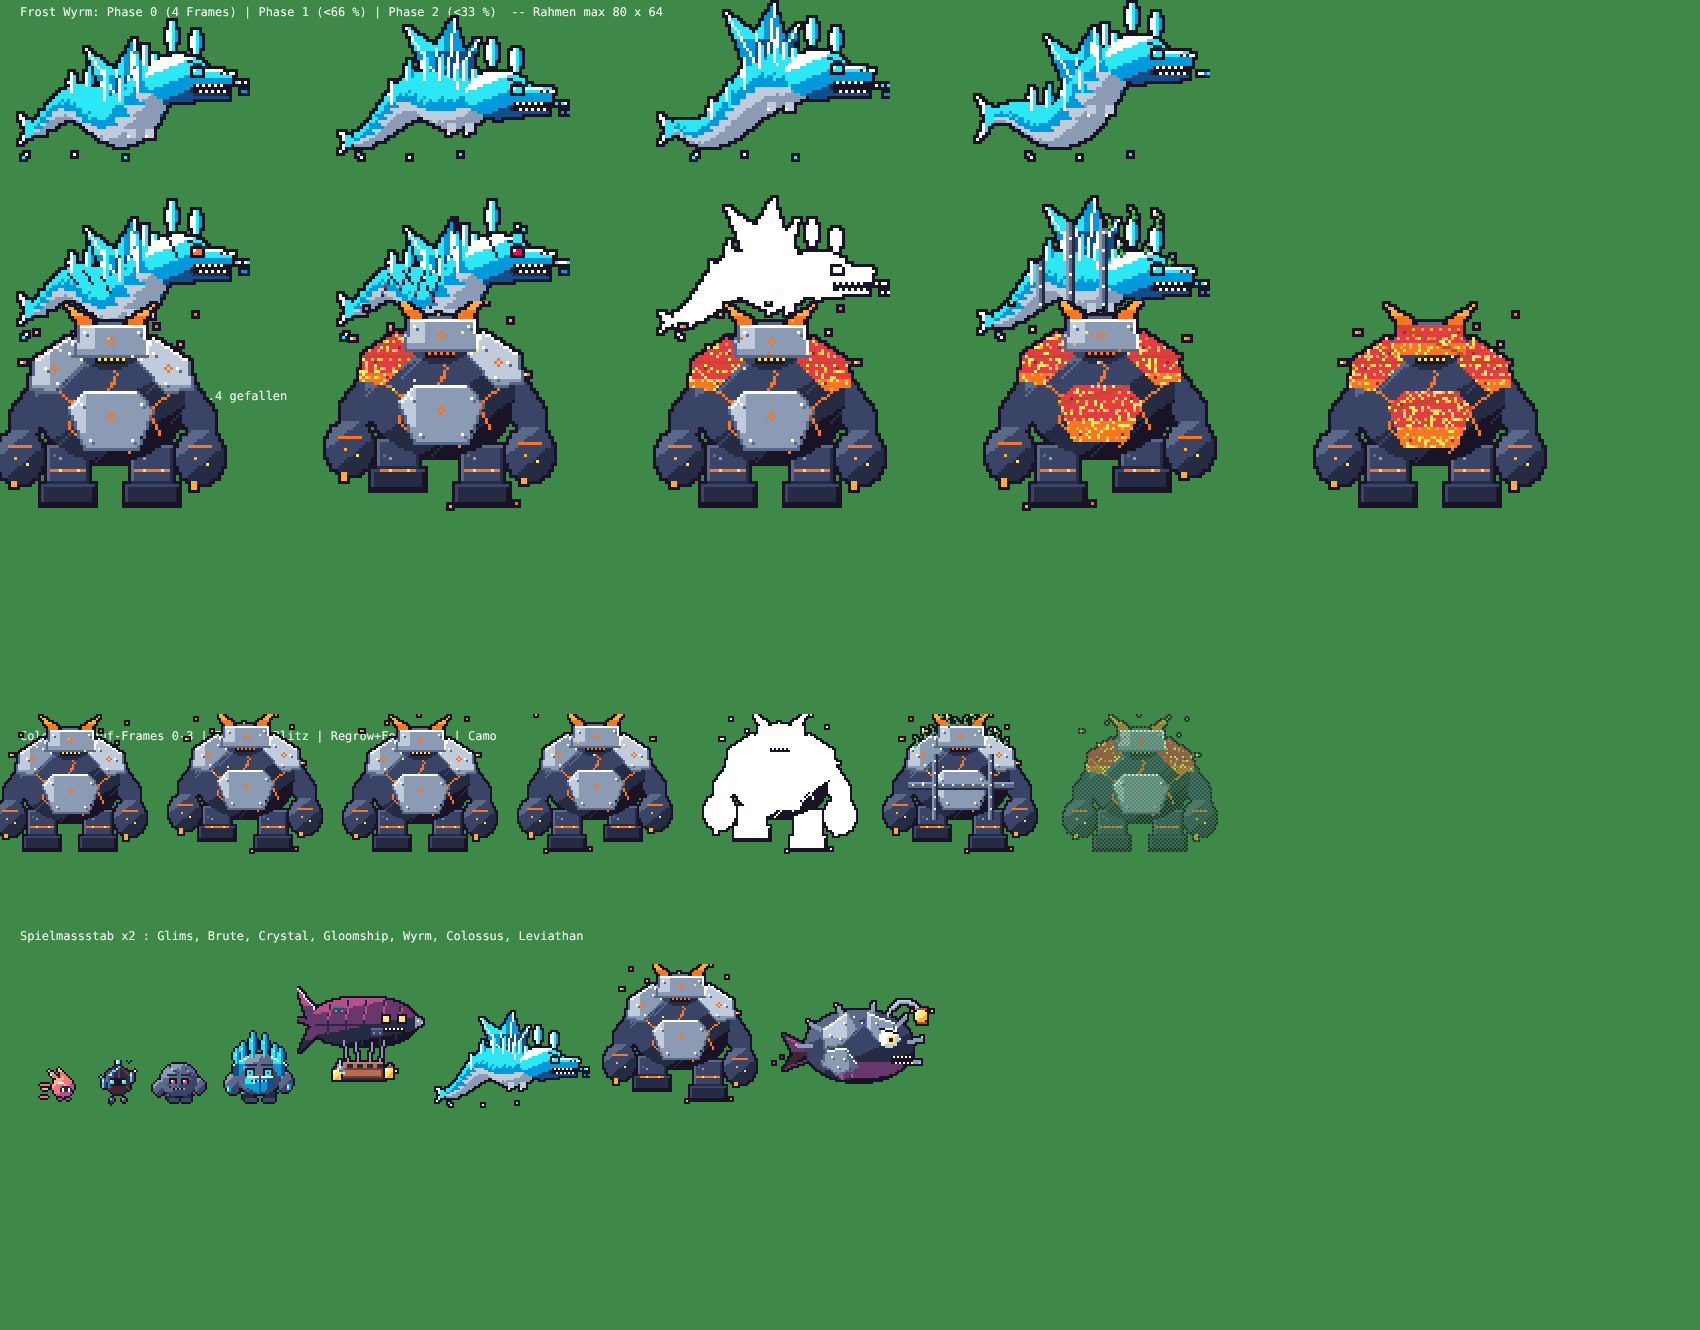
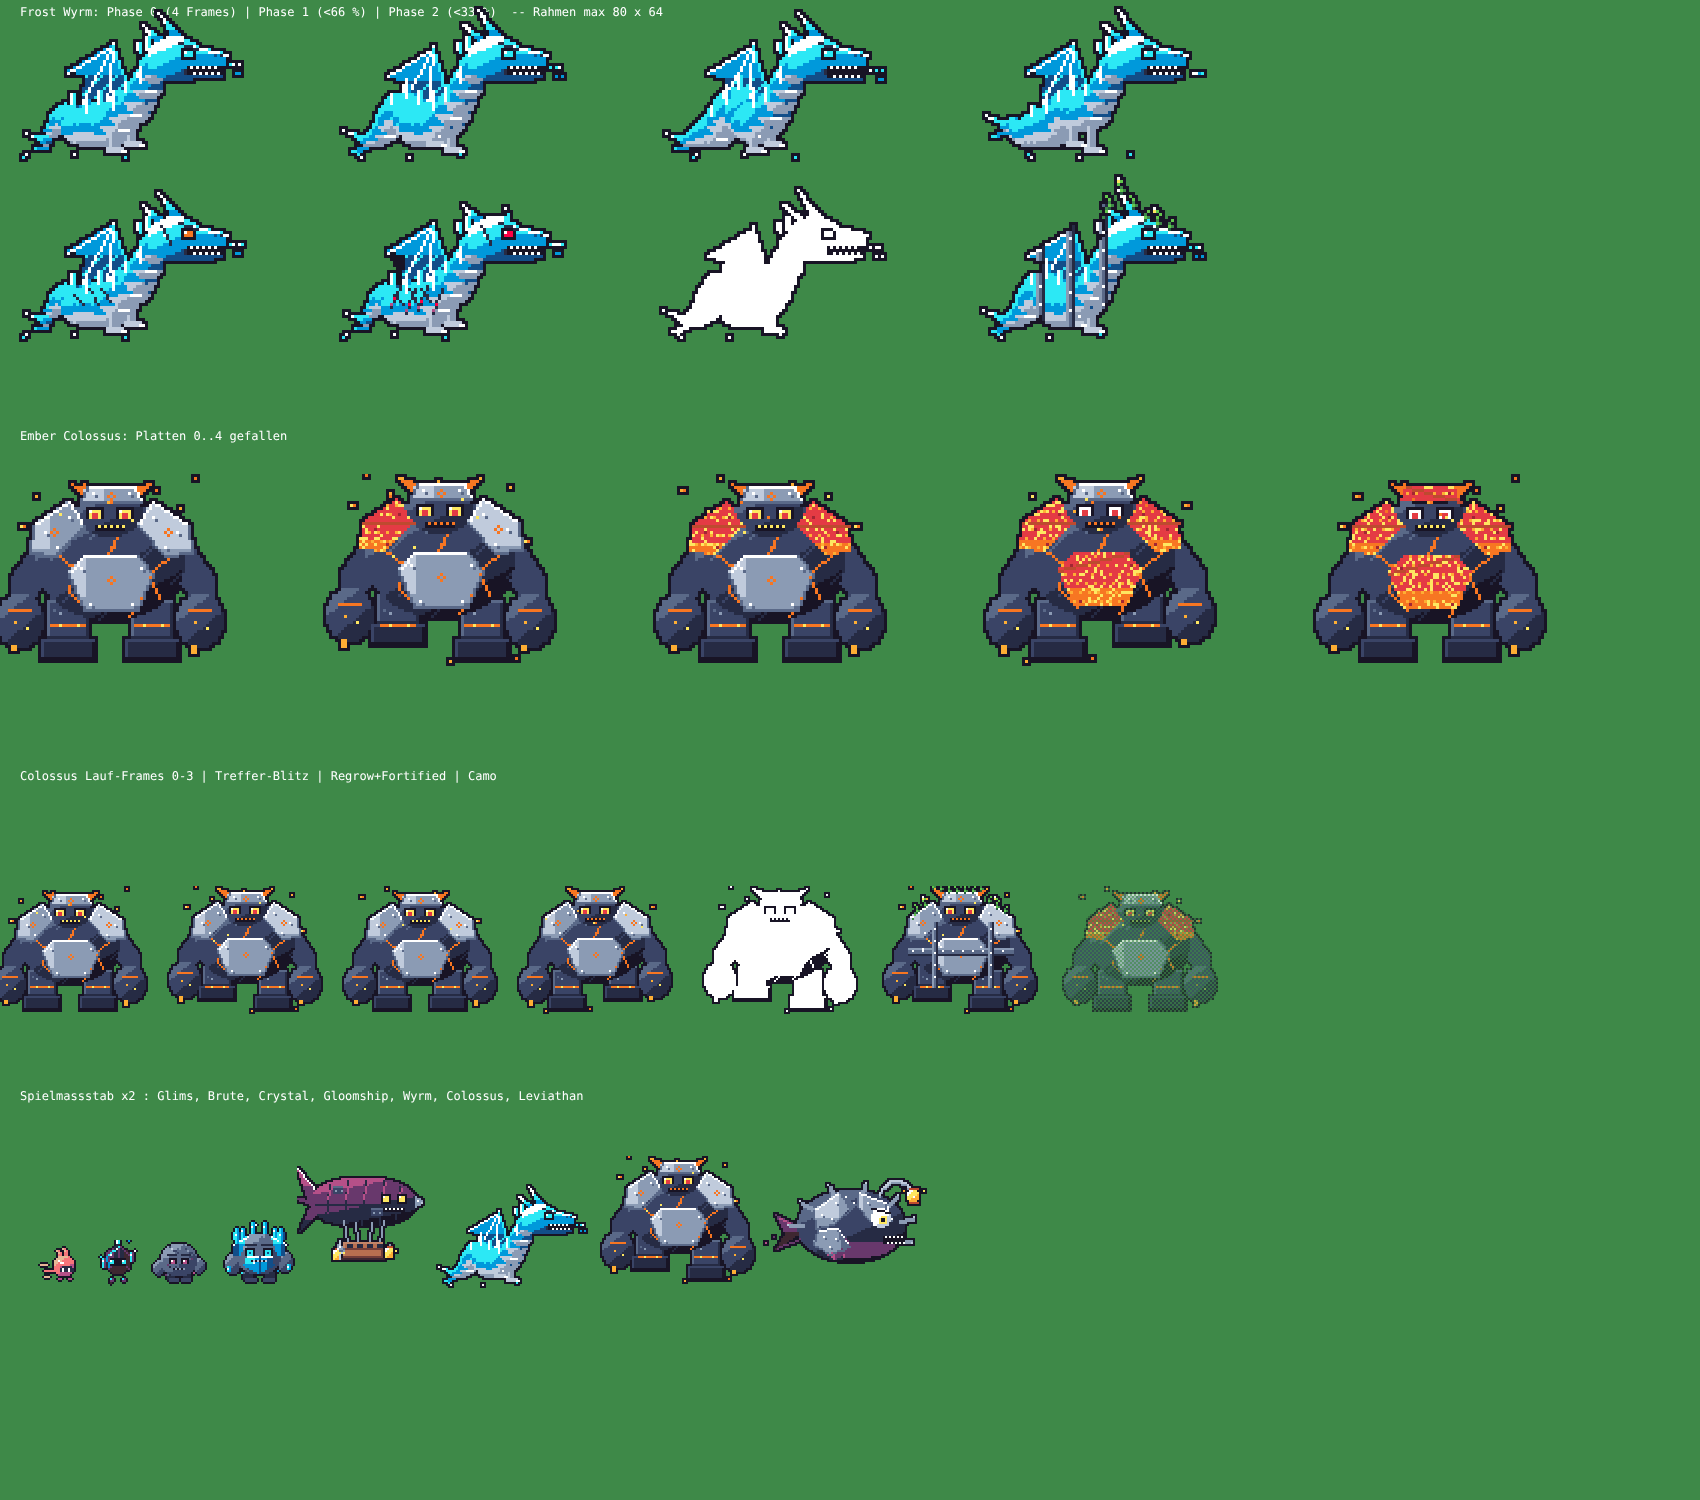
Runde 15 B2: Pixel-Gegner Pink Glim, Frostling, Crystal Brute, Gloomship, Frost Wyrm, Ember Colossus samt Regrow-/Fortified-Look und Effekten
Crystal-Lauf-Frames unterscheidbar (Test gruen), Sprite-Bogen-Layout entzerrt, Screenshots neu in client/docs/r15/.

Claude-Session: https://claude.ai/code/session_01Qw1eNus4A4pQXWKdhKHxPf

diff --git a/client/src/pixel/sprites/sheet15.ts b/client/src/pixel/sprites/sheet15.ts
@@ -22,8 +22,8 @@ function tile(g: CanvasRenderingContext2D, x: number, y: number, w: number, h: n
 }
 
 export function sheetGegnerR15(): HTMLCanvasElement {
-  const { c, g } = mk(1700, 1180);
-  tile(g, 0, 0, 1700, 1180);
+  const { c, g } = mk(1700, 1340);
+  tile(g, 0, 0, 1700, 1340);
   // Zeile 1: Lauf-Frames
   label(g, 'pink (4 Frames)', 20, 18); label(g, 'frostling', 420, 18); label(g, 'crystal', 820, 18);
   for (let f = 0; f < 4; f++) {
@@ -32,7 +32,7 @@ export function sheetGegnerR15(): HTMLCanvasElement {
     blit(g, api.enemySprite('crystal', f), 850 + f * 150, 160, 3);
   }
   // Zeile 2: Risse, Treffer-Blitz, Camo
-  label(g, 'Crystal Brute: Risse 0 / 1 / 2 / 3 | Camo darunter | Treffer-Blitz | Camo je Typ', 20, 205);
+  label(g, 'Crystal Brute: Risse 0 / 1 / 2 / 3 | Camo darunter | Treffer-Blitz | Camo je Typ', 20, 215);
   for (let k = 0; k < 4; k++) {
     blit(g, api.enemySprite('crystal', 0, { damageStage: k }), 80 + k * 150, 330, 3);
     blit(g, api.enemySprite('crystal', 0, { damageStage: k, camo: true }), 80 + k * 150, 450, 3);
@@ -44,21 +44,21 @@ export function sheetGegnerR15(): HTMLCanvasElement {
   blit(g, api.enemySprite('pink', 0, { camo: true }), 700, 450, 4);
   blit(g, api.enemySprite('frostling', 1, { camo: true }), 800, 450, 4);
   // Zeile 3: Gloomship
-  label(g, 'Gloomship: Stufen 0 / 1 / 2, Camo, Frame 0-3 (Anker = Bodenpunkt, Schatten darunter)', 20, 505);
+  label(g, 'Gloomship: Stufen 0 / 1 / 2, Camo, Frame 0-3 (Anker = Bodenpunkt, Schatten darunter)', 20, 560);
   for (let k = 0; k < 3; k++) {
-    blit(g, api.fx.gloomShadow(k), 70 + k * 220, 628, 3);
-    blit(g, api.enemySprite('gloomship', k, { damageStage: k }), 70 + k * 220, 628, 3);
+    blit(g, api.fx.gloomShadow(k), 130 + k * 260, 770, 3);
+    blit(g, api.enemySprite('gloomship', k, { damageStage: k }), 130 + k * 260, 770, 3);
   }
-  blit(g, api.fx.gloomShadow(2), 740, 628, 3);
-  blit(g, api.enemySprite('gloomship', 1, { camo: true }), 740, 628, 3);
-  for (let f = 0; f < 4; f++) blit(g, api.enemySprite('gloomship', f), 1000 + (f % 2) * 150, 540 + Math.floor(f / 2) * 90 + 60, 2);
+  blit(g, api.fx.gloomShadow(2), 910, 770, 3);
+  blit(g, api.enemySprite('gloomship', 1, { camo: true }), 910, 770, 3);
+  for (let f = 0; f < 4; f++) blit(g, api.enemySprite('gloomship', f), 1200 + (f % 2) * 170, 640 + Math.floor(f / 2) * 100 + 40, 2);
   // Zeile 4: Merkmale
-  label(g, 'Merkmale: normal | Regrow | Fortified | beide | beide + Camo  (je Typ)', 20, 700);
+  label(g, 'Merkmale: normal | Regrow | Fortified | beide | beide + Camo  (je Typ)', 20, 850);
   const types: EnemyType[] = ['red', 'green', 'pink', 'frostling', 'ironshell', 'ember', 'brute', 'crystal', 'gloomship'];
   types.forEach((t, row) => {
     const big = t === 'gloomship' || t === 'crystal';
     const k = big ? 1 : 2;
-    const x0 = 40 + (row % 3) * 560, y0 = 780 + Math.floor(row / 3) * 130;
+    const x0 = 40 + (row % 3) * 560, y0 = 930 + Math.floor(row / 3) * 130;
     const variants: api.EnemySpriteOpts[] = [{}, { regrow: true }, { fortified: true }, { regrow: true, fortified: true }, { regrow: true, fortified: true, camo: true }];
     variants.forEach((o, i) => blit(g, api.enemySprite(t, 1, o), x0 + i * (big ? 100 : 64), y0 + (big ? 50 : 40) * (big ? 1 : 1) - 8, k));
     label(g, t, x0 - 30, y0 - 22);
@@ -67,26 +67,26 @@ export function sheetGegnerR15(): HTMLCanvasElement {
 }
 
 export function sheetBosseR15(): HTMLCanvasElement {
-  const { c, g } = mk(1700, 1330);
-  tile(g, 0, 0, 1700, 1330);
+  const { c, g } = mk(1700, 1500);
+  tile(g, 0, 0, 1700, 1500);
   label(g, 'Frost Wyrm: Phase 0 (4 Frames) | Phase 1 (<66 %) | Phase 2 (<33 %)  -- Rahmen max 80 x 64', 20, 16);
   for (let f = 0; f < 4; f++) blit(g, api.enemySprite('wyrm', f), 130 + f * 320, 150, 3);
   for (let k = 1; k <= 2; k++) blit(g, api.enemySprite('wyrm', 0, { damageStage: k }), 130 + (k - 1) * 320, 330, 3);
   blit(g, api.enemySprite('wyrm', 1, { hitFlash: true }), 770, 330, 3);
   blit(g, api.enemySprite('wyrm', 1, { regrow: true, fortified: true }), 1090, 330, 3);
-  label(g, 'Ember Colossus: Platten 0..4 gefallen', 20, 400);
-  for (let k = 0; k <= 4; k++) blit(g, api.enemySprite('colossus', k % 4, { damageStage: k }), 110 + k * 330, 505, 3);
-  label(g, 'Colossus Lauf-Frames 0-3 | Treffer-Blitz | Regrow+Fortified | Camo', 20, 740);
-  for (let f = 0; f < 4; f++) blit(g, api.enemySprite('colossus', f, { damageStage: 0 }), 70 + f * 175, 850, 2);
-  blit(g, api.enemySprite('colossus', 1, { hitFlash: true }), 780, 850, 2);
-  blit(g, api.enemySprite('colossus', 1, { regrow: true, fortified: true }), 960, 850, 2);
-  blit(g, api.enemySprite('colossus', 2, { camo: true, damageStage: 2 }), 1140, 850, 2);
-  label(g, 'Spielmassstab x2 : Glims, Brute, Crystal, Gloomship, Wyrm, Colossus, Leviathan', 20, 940);
+  label(g, 'Ember Colossus: Platten 0..4 gefallen', 20, 440);
+  for (let k = 0; k <= 4; k++) blit(g, api.enemySprite('colossus', k % 4, { damageStage: k }), 110 + k * 330, 660, 3);
+  label(g, 'Colossus Lauf-Frames 0-3 | Treffer-Blitz | Regrow+Fortified | Camo', 20, 780);
+  for (let f = 0; f < 4; f++) blit(g, api.enemySprite('colossus', f, { damageStage: 0 }), 70 + f * 175, 1010, 2);
+  blit(g, api.enemySprite('colossus', 1, { hitFlash: true }), 780, 1010, 2);
+  blit(g, api.enemySprite('colossus', 1, { regrow: true, fortified: true }), 960, 1010, 2);
+  blit(g, api.enemySprite('colossus', 2, { camo: true, damageStage: 2 }), 1140, 1010, 2);
+  label(g, 'Spielmassstab x2 : Glims, Brute, Crystal, Gloomship, Wyrm, Colossus, Leviathan', 20, 1100);
   const lineup: EnemyType[] = ['pink', 'frostling', 'brute', 'crystal', 'gloomship', 'wyrm', 'colossus', 'leviathan'];
   let x = 50;
   lineup.forEach((t) => {
     const s = api.enemySprite(t, 1);
-    blit(g, s, x + s.ax, 1100, 2);
+    blit(g, s, x + s.ax, 1280, 2);
     x += s.canvas.width * 2 + 8;
   });
   void api;

diff --git a/client/src/pixel/sprites/enemies15.ts b/client/src/pixel/sprites/enemies15.ts
@@ -121,6 +121,8 @@ export function drawCrystalBrute(f: number, stage: number, s: Surface): void {
     const hh = h - (stage >= 2 && i % 2 ? 2 : 0) - crest * (i === 1 ? 2 : 0);
     crystal(s, cx + dx, cy + dy - 1, hh, CRY, 1);
   });
+  // Glitzern wandert ueber den Kamm (macht alle 4 Lauf-Frames verschieden)
+  s.px(cx - 8 + (f & 3) * 5 + sway, cy - 14 - ((f & 3) % 3), f & 1 ? 'white' : 'ice');
   // Schulterpanzer aus Kristall
   for (const sg of [-1, 1]) {
     const broken = stage >= 2 && sg > 0;
